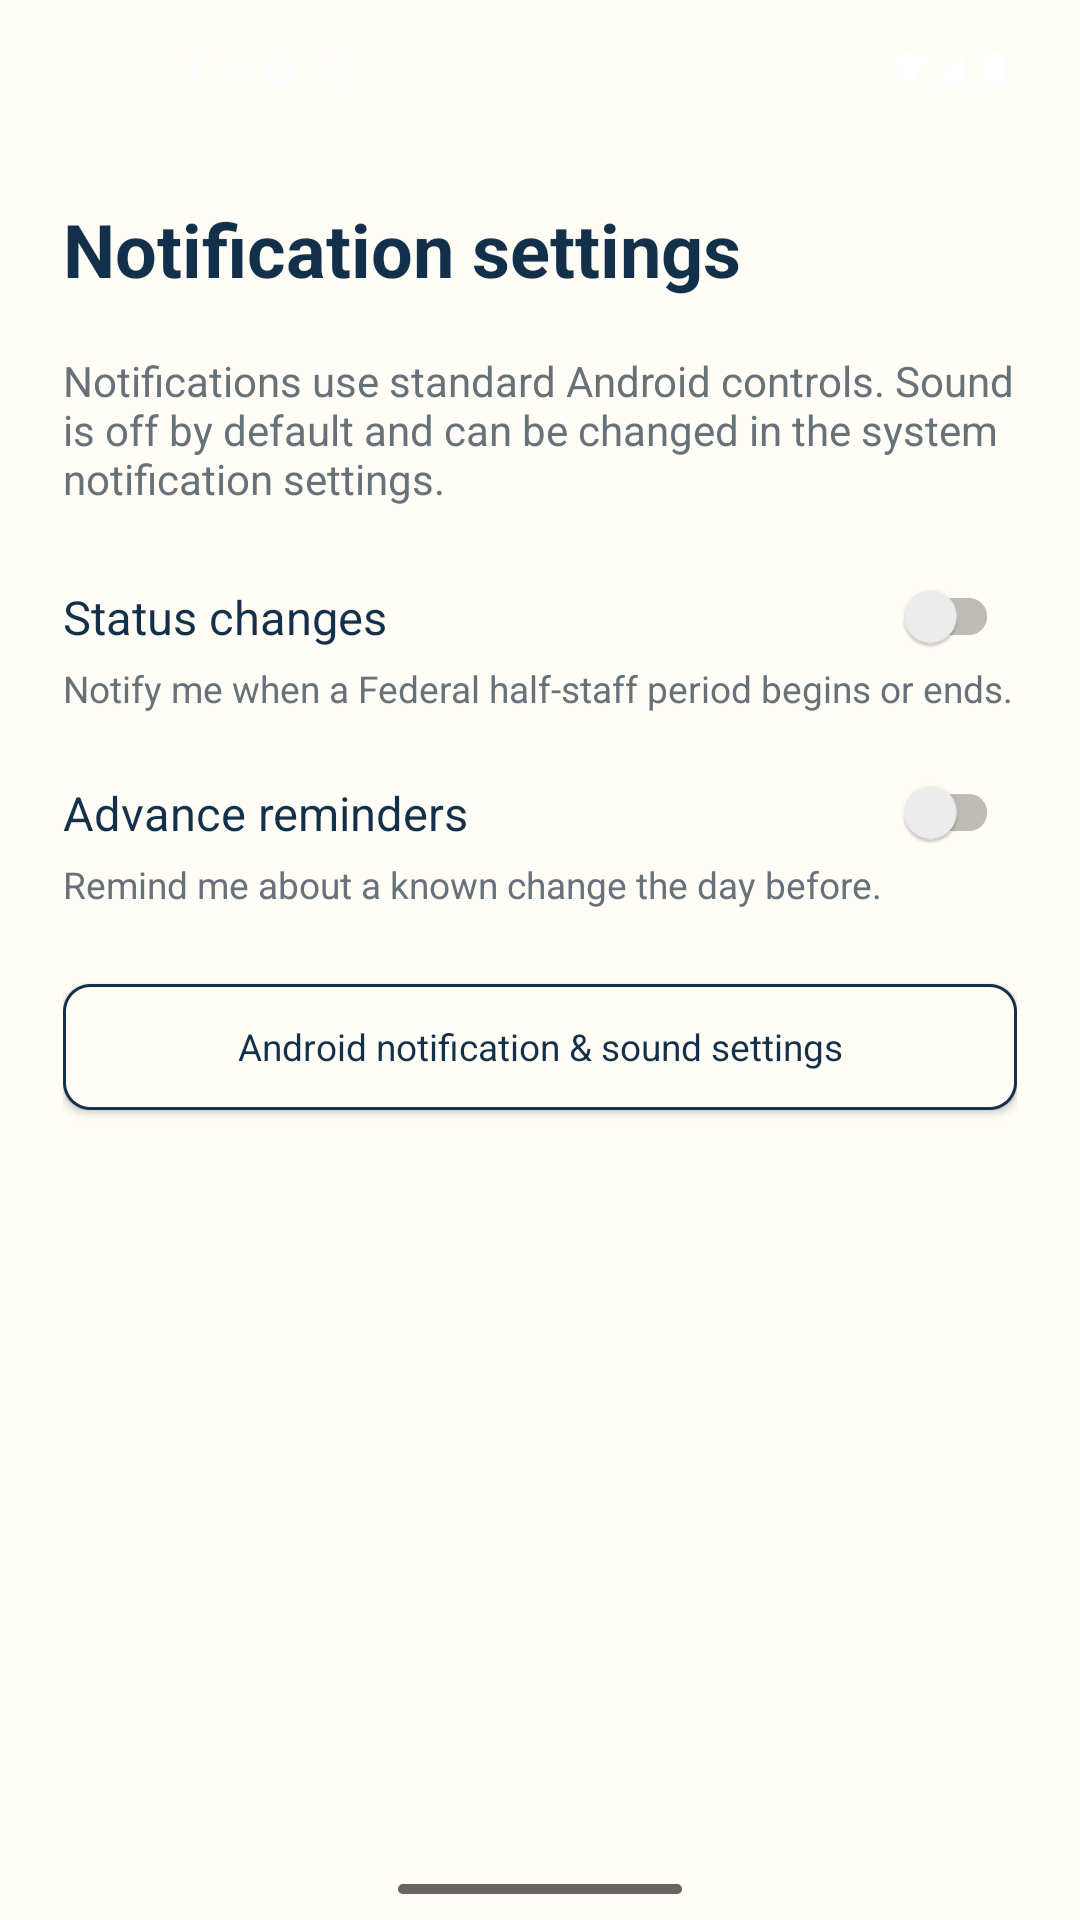
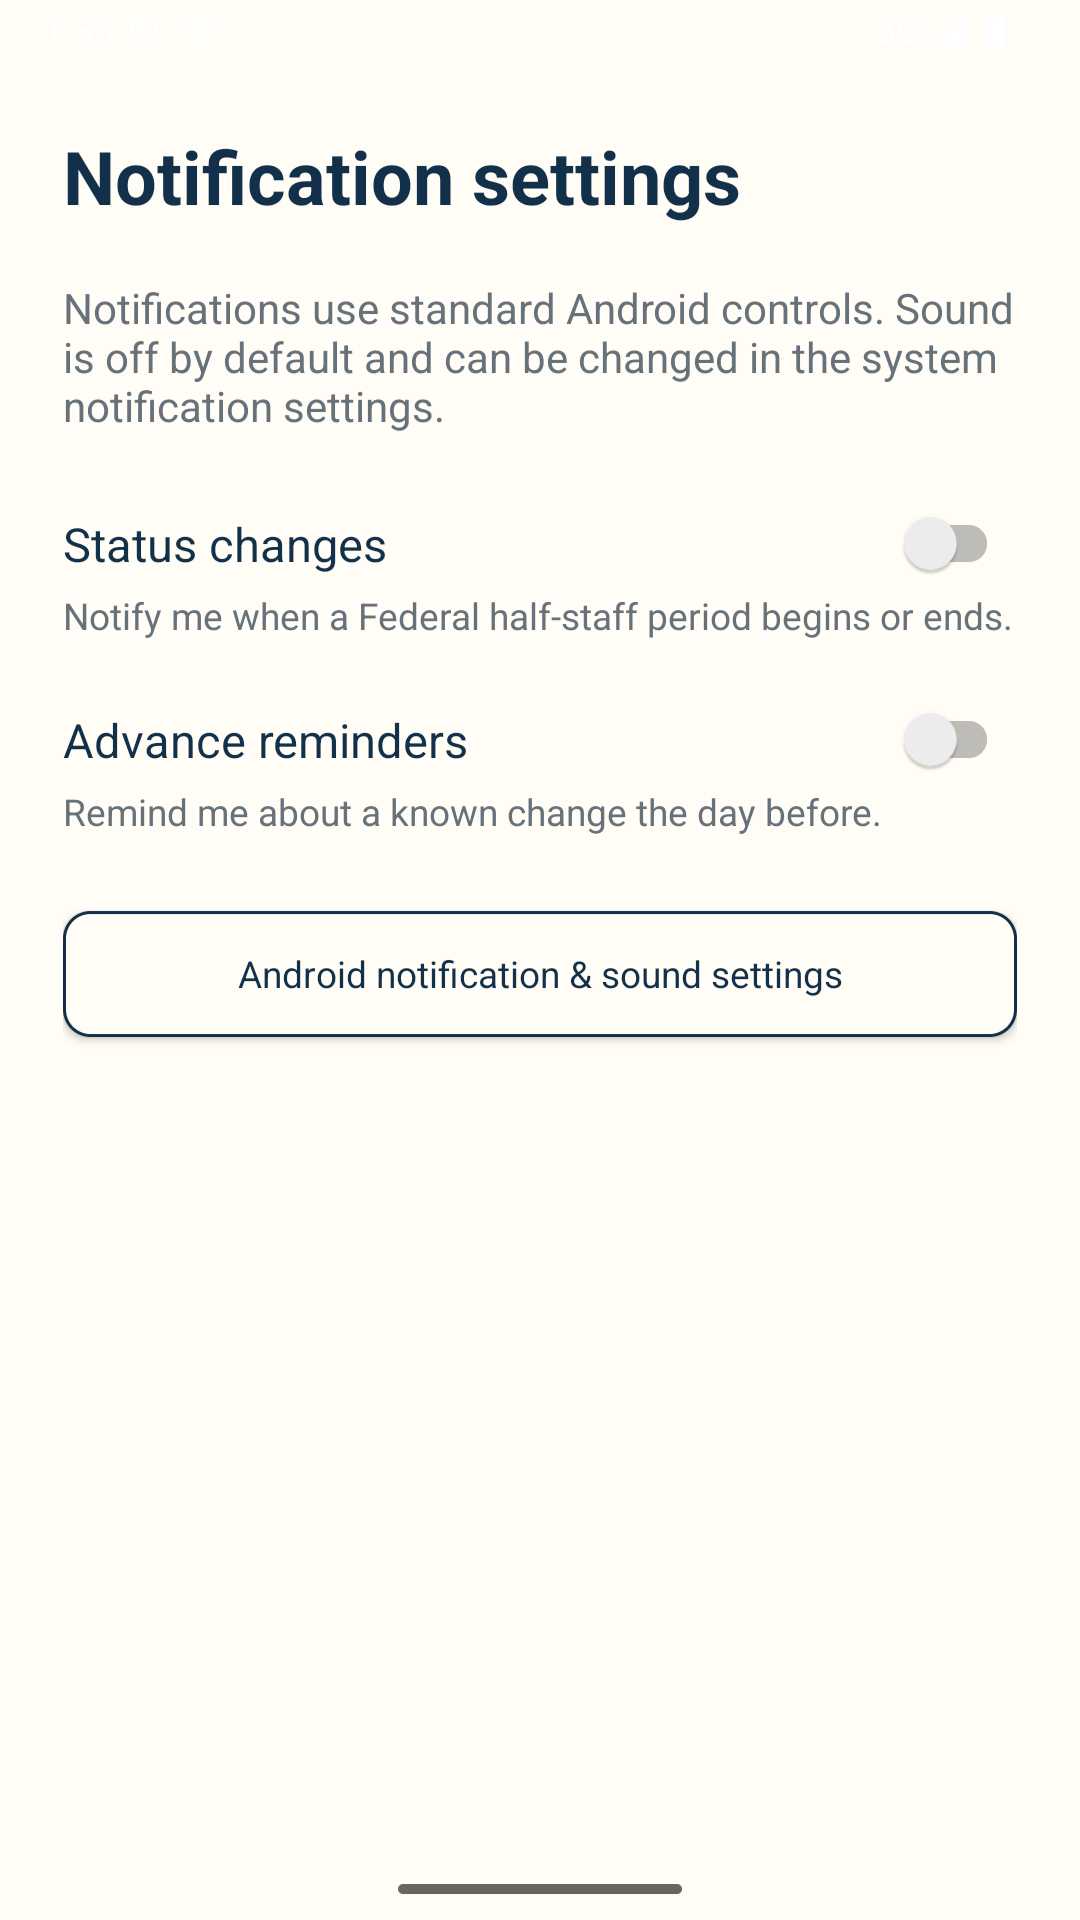
publish production documentation

diff --git a/README.md b/README.md
@@ -1,8 +1,8 @@
 # FlagMinder
 
-**Status:** Closed test<br>
+**Status:** Production<br>
 **Platform:** Android<br>
-**Current version:** `2026.09.16-9`
+**Current version:** `2026.09.18-05`
 
 Android package: `engineering.champagne.flagminder`
 
@@ -10,7 +10,9 @@ Android package: `engineering.champagne.flagminder`
 
 ## Overview
 
-FlagMinder is a Federal U.S. flag-status indicator. Its home-screen widget
+FlagMinder is a Federal U.S. flag-status indicator. It combines scheduled
+Federal observances with Presidential half-staff actions after they are
+received and processed from official Federal sources. Its home-screen widget
 shows yesterday, today, and tomorrow so a change in flag position is visible
 at a glance. The app provides the effective time, reason, official source,
 upcoming Federal observances, and optional local notifications.
@@ -29,10 +31,12 @@ upcoming Federal observances, and optional local notifications.
 
 <p>
   <img src="docs/screenshots/widget.png" alt="FlagMinder three-day Federal flag-status home-screen widget" width="180">
-  <img src="docs/screenshots/full-staff-details.png" alt="FlagMinder full-staff status screen" width="180">
-  <img src="docs/screenshots/half-staff-details.png" alt="FlagMinder half-staff details with official sources" width="180">
+  <img src="docs/screenshots/status-and-sources.png" alt="FlagMinder full-staff status screen and official Federal sources" width="180">
+  <img src="docs/screenshots/sources-and-actions.png" alt="FlagMinder source links and app actions" width="180">
   <img src="docs/screenshots/schedule.png" alt="FlagMinder Federal schedule screen" width="180">
+  <img src="docs/screenshots/scheduled-change.png" alt="FlagMinder next scheduled change and official source" width="180">
   <img src="docs/screenshots/notifications.png" alt="FlagMinder notification settings" width="180">
+  <img src="docs/screenshots/about.png" alt="FlagMinder About screen and Federal sources" width="180">
 </p>
 
 ## Repository Purpose
@@ -45,6 +49,7 @@ Android application source code or backend implementation.
 
 - [Release Notes](docs/release-notes.md)
 - [Documentation](docs/README.md)
+- [Google Play](https://play.google.com/store/apps/details?id=engineering.champagne.flagminder)
 - [FlagMinder product page](https://champagne.engineering/flagminder)
 - [Privacy Policy](https://champagne.engineering/privacy)
 - [Terms of Service](https://champagne.engineering/tos)

diff --git a/docs/release-notes.md b/docs/release-notes.md
@@ -1,10 +1,11 @@
 # Release notes
 
-## 2026.09.16-9 — Closed test
+## 2026.09.18-05 — Production
 
 - Added the Federal U.S. flag-status home-screen widget.
 - Added Yesterday / Today / Tomorrow context and daily flag timelines.
 - Added current-status details, official-source links, and Federal schedule.
 - Added optional local notifications for status changes and advance reminders.
 - Added cached status with visible freshness handling.
-
+- Made official Federal source links directly accessible from the status,
+  schedule, and About screens.
